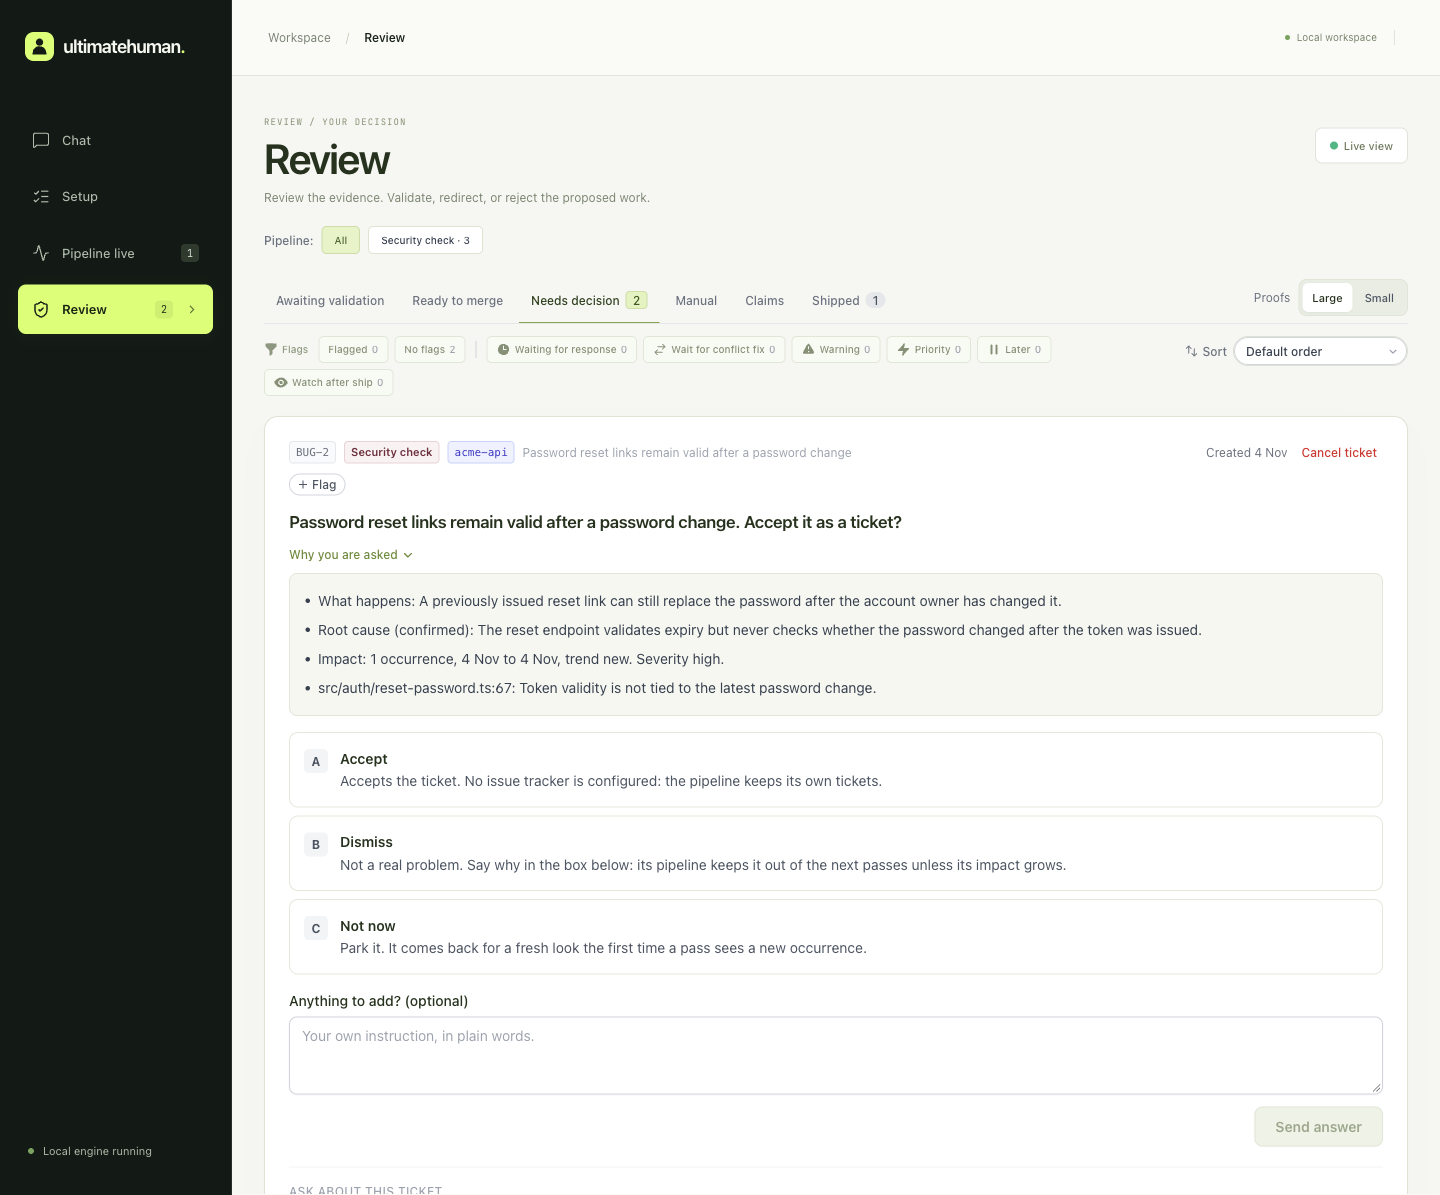
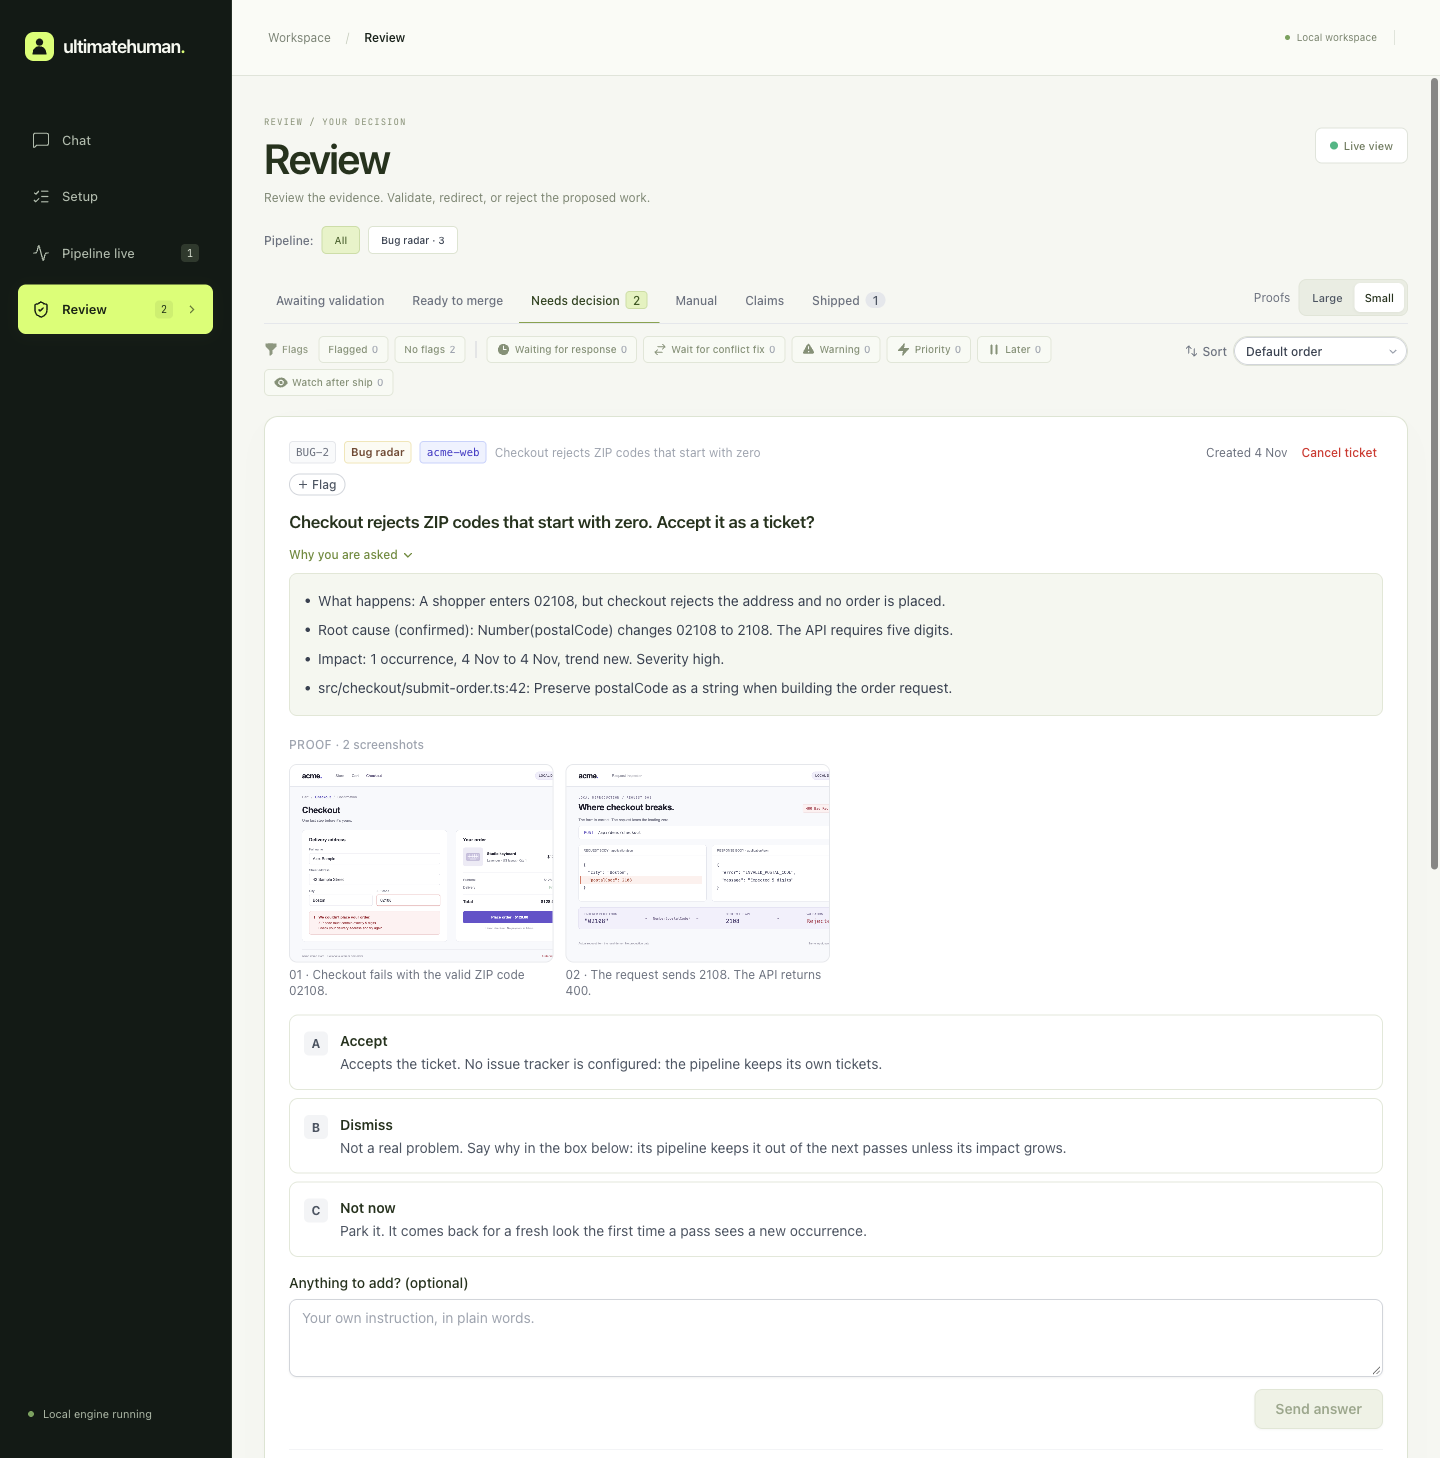
Show a concrete review example with screenshot evidence

diff --git a/README.md b/README.md
@@ -60,7 +60,7 @@ The browser, terminal, and optional Telegram connection share one conversation. 
 
 ## See the product
 
-Screenshots of the shipped `0.1.0` interface, using fictional Acme repositories and sample messages, findings, and run states.
+Screenshots use fictional Acme repositories and sample data. Chat and Pipeline live show the shipped `0.1.0` interface; the Review example below also illustrates its screenshot viewer with demo attachments.
 
 ### Set up through chat
 
@@ -76,9 +76,19 @@ See what is running, what is being checked, and what needs your decision. Expand
 
 ### Make the decision
 
-Inspect the finding's explanation and code references, then accept it, dismiss it, or set it aside. The shipped release records investigation decisions; automated fixes and merges are future stages.
+**A valid ZIP code. A failed checkout. An explanation you can inspect.**
 
-![Review showing an example finding, its root cause and code reference, and the Accept, Dismiss, and Not now choices](docs/assets/screenshots/review.png)
+In this example, a shopper enters `02108`. The checkout converts it to `2108`, and the API rejects the order. The ticket brings together the cause, code reference, and two screenshots: the checkout failure and the request behind it.
+
+![Review ticket for a checkout bug, with two screenshot evidence thumbnails, the root cause, and Accept, Dismiss, and Not now choices](docs/assets/screenshots/review.png)
+
+The original Review viewer opens each screenshot at full size, with navigation between the evidence images.
+
+![Full-screen evidence viewer showing a valid ZIP code rejected by the fictional Acme checkout](docs/assets/screenshots/review-evidence.png)
+
+[View the checkout screenshot](docs/assets/screenshots/checkout-failure.png) · [View the request trace](docs/assets/screenshots/checkout-request.png)
+
+**Example scope:** these attachments come from a local demo. Version `0.1.0` does not yet connect screenshot attachments to review tickets or capture them automatically. The shipped release records investigation decisions; automated fixes and merges are future stages. [Screenshot details](docs/assets/screenshots/README.md)
 
 ## Start with the tools you already use
 

diff --git a/docs/assets/screenshots/README.md b/docs/assets/screenshots/README.md
@@ -1,0 +1,22 @@
+# Documentation screenshots
+
+These images use fictional Acme repositories, sample messages, findings, and run states. They contain no customer projects, credentials, or production data.
+
+| File | Content | Capture |
+| --- | --- | --- |
+| `chat.png` | Project setup and next steps | Shipped `0.1.0` UI, seeded conversation |
+| `pipeline-live.png` | An investigation and prepared findings | Shipped `0.1.0` UI, seeded runs |
+| `review.png` | A checkout finding with two screenshot attachments | Original Review components, fixture attachments |
+| `review-evidence.png` | The first attachment in the full-screen viewer | Opened through the original Review thumbnail |
+| `checkout-failure.png` | A valid ZIP code rejected at checkout | Browser capture of a local demo form |
+| `checkout-request.png` | The request and validation error | Browser capture of the demo's recorded request |
+
+## Review example
+
+The local demo deliberately converts the ZIP code `02108` to the number `2108` before sending it. The validator rejects that request with HTTP `400`. Sending the original string `"02108"` to the same validator succeeds with HTTP `201`. No payment is taken.
+
+Both evidence images were captured in Chrome and supplied as fixture attachments to the existing Review components. The screenshot viewer itself is unchanged. Both images loaded at their original resolution; opening a thumbnail, moving between images with the arrow keys, and closing with Escape were checked.
+
+This is an illustrative review, not a pipeline result from a customer application. The fixture supplies the attachments during ticket serialization and serves their image requests in the isolated browser session. No production data adapter, collector, or application behavior was changed to make these screenshots.
+
+Version `0.1.0` currently maps finding evidence to an empty screenshot list. It does not connect screenshot attachments to these Review components or automatically capture screenshots. The root README states this next to the example. Do not describe the images as proof that an installed `0.1.0` pipeline automatically reproduces bugs, captures screenshots, implements fixes, or merges changes.
